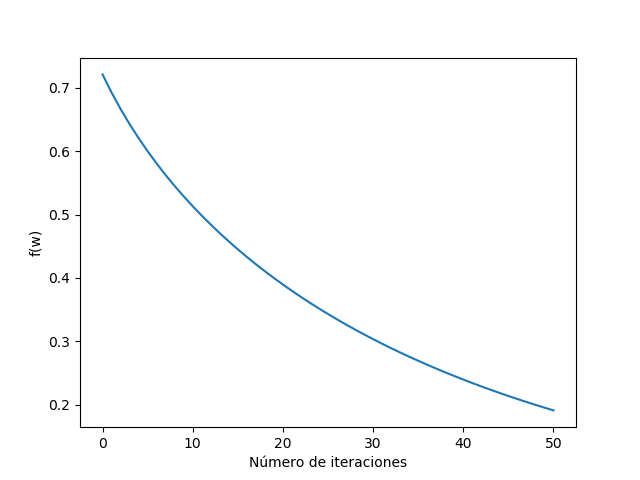
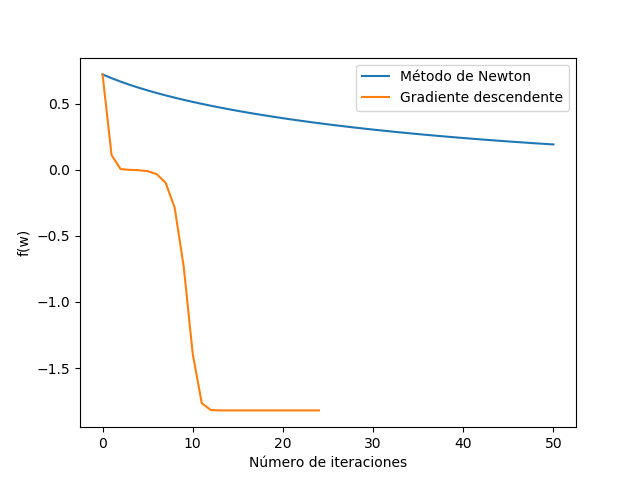
#11 terminando doc

diff --git a/P1/doc/P1-Balderas-Ruiz-Luis.tex b/P1/doc/P1-Balderas-Ruiz-Luis.tex
@@ -71,7 +71,7 @@ $$\frac{\partial E(u,v)}{\partial v} = (2u^2e^v-8ve^{-u})(u^2e^v-2v^2e^{-u})$$
 
 $$\Rightarrow \nabla E(u,v) = \left((4ue^v+4v^2e^{-v})(u^2e^v-2v^2e^{-u}),(u^2e^v-2v^2e^{-u})(2u^2e^v-8ve^{-u})\right)$$
 
-Dado $\epsilon = 10^{-14}$, el número de iteraciones necesarias para obtener un valor por debajo de esa tolerancia (usando flotantes de 64 bits) es 34. Dicho valor se da en el par $(x,y) = (0.619207671834479,0.968448270676094)$
+Dado $\epsilon = 10^{-14}$, el número de iteraciones necesarias para obtener un valor por debajo de esa tolerancia (usando flotantes de 64 bits) es 34. Dicho valor se da en el par $(x,y)$ = (0.619207671834479, 0.968448270676094).
 
 Podemos observarlo en la siguiente gráfica, en la que vemos como converge muy rápidamente (basta una iteración para que se acerque mucho al punto final) hasta que en el 34 se da el criterio de parada. \\
 
@@ -84,7 +84,7 @@ Podemos observarlo en la siguiente gráfica, en la que vemos como converge muy r
 
 \subsubsection{Función $f(x,y)=x^2+2y^2+2sin(2\pi x) sin(2\pi y)$}
 
-En este caso trabajo con la función $f(x,y)=x^2+2y^2+2sin(2\pi x) sin(2\pi y)$. Esta función vuelve a ser clase $C^{\infty}$, luego podemos aplicar gradiente descendente sin problema. Tomando como punto inicial $(x_0,y_0) = (0.1,0.1), \eta = 0.01$ y un máximo de 50 iteraciones, minimizo la función y muestro el gráfico correspondiente. Como se puede ver, la convergencia se produce cerca de la duodécima iteración para llegar a la parada en la número 24. Las coordenadas del mínimo obtenido son $(x,y) = (0.24380496934646,-0.237925821480742$)
+En este caso trabajo con la función $f(x,y)=x^2+2y^2+2sin(2\pi x) sin(2\pi y)$. Esta función vuelve a ser clase $C^{\infty}$, luego podemos aplicar gradiente descendente sin problema. Tomando como punto inicial $(x_0,y_0) = (0.1,0.1), \eta = 0.01$ y un máximo de 50 iteraciones, minimizo la función y muestro el gráfico correspondiente. Como se puede ver, la convergencia se produce cerca de la duodécima iteración para llegar a la parada en la número 24. Las coordenadas del mínimo obtenido son $(x,y)$ = (0.24380496934646, -0.237925821480742)
 
 \begin{figure}[H] %con el [H] le obligamos a situar aquí la figura
 	\centering
@@ -108,7 +108,7 @@ Para el caso en el que $\eta=0.1$ vamos a observar que no hay una convergencia, 
 \begin{figure}[H] %con el [H] le obligamos a situar aquí la figura
 	\centering
 	\includegraphics[scale=0.6]{f3.png}  %el parámetro scale permite agrandar o achicar la imagen. En el nombre de archivo puede especificar directorios
-	\caption{Nube de puntos consecuencia del learning rate = 0.1} 
+	\caption{Comportamiento errático de la imagen debido a learning rate = 0.1} 
 	\label{fig:f3}
 \end{figure}
 
@@ -122,10 +122,10 @@ Probamos ahora el algoritmo en distintos puntos iniciales para ver la importanci
 	\begin{tabular}{|c|c|c|}
 		\hline
 		$(x_0,y_0)$   & $(x,y)$ (Valor donde se alcanza el mínimo)                                 & $f(x,y)$          \\ \hline
-		$(0.1,0.1)$   & $(0.243804969346460, -0.237925821480742)$  & -1.82007854154716 \\ \hline
-		$(1,1)$       & $(1.21807030090520, 0.712811950338754)$    & 0.593269374325836 \\ \hline
-		$(-0.5,-0.5)$ & $(-0.731377459870107, -0.237855362955527)$ & -1.33248106233098 \\ \hline
-		$(-1,-1)$     & $(-1.21807030090520, -0.712811950338754)$  & 0.593269374325836 \\ \hline
+		(0.1, 0.1)   & (0.243804969346460, -0.237925821480742) & -1.82007854154716 \\ \hline
+		(1, 1)       & (1.21807030090520, 0.712811950338754)    & 0.593269374325836 \\ \hline
+		(-0.5, -0.5) & (-0.731377459870107, -0.237855362955527) & -1.33248106233098 \\ \hline
+		(-1, -1)     & (-1.21807030090520, -0.712811950338754)  & 0.593269374325836 \\ \hline
 	\end{tabular}
 	\caption{Tabla requerida en el ejercicio 3 b)}
 	\label{table1}
@@ -133,7 +133,7 @@ Probamos ahora el algoritmo en distintos puntos iniciales para ver la importanci
 
 \subsubsection{Conclusión sobre la verdadera dificultad de encontrar el mínimo global de una función arbitraria}
 
-Tanto en análisis real de una variable como en varias variables reales, la búsqueda de extremos relativos está asociada al concepto de derivada. En el primer caso, buscamos mínimos en el interior del intervalo de definición de la función derivando e igualando a cero la derivada. En el caso de varias variables, calculamos el gradiente e igualamos a cero para los extremos interiores y, en la superficie, utilizamos los multiplicadores de Lagrange. En suma, la optimización está ligada a la derivación. La derivabilidad de una función es un concepto totalmente local, esto es, se puede estudiar con todo rigor en un entorno abierto de un punto. El llamado carácter local de la derivabilidad favorece en muchas demostraciones, en las que basta con comprobarlo para un entorno abierto ya que la extensión al dominio completo es trivial. Sin embargo, la desventaja es que los extremos, en este caso los mínimos, pueden ser relativos. Por tanto, la verdadera dificultad a la hora de encontrar el mínimo global de una función arbitraria es toparse con mínimos locales. Gradiente Descendente es ejemplo de un algoritmo versátil a la hora de encontrar mínimos, pero sólo da garantías para entornos del punto de inicio, cayendo en mínimos locales y olvidándose, a buen seguro, del mínimo global (si es que existe).
+Tanto en análisis real de una variable como en varias variables reales, la búsqueda de extremos relativos está asociada al concepto de derivada. En el primer caso, buscamos mínimos en el interior del intervalo de definición de la función derivando e igualando a cero la derivada. En el caso de varias variables, calculamos el gradiente e igualamos a cero para los extremos interiores y, en la superficie, utilizamos los multiplicadores de Lagrange. En suma, la optimización está ligada a la derivación. La derivabilidad de una función es un concepto totalmente local, esto es, se puede estudiar con todo rigor en un entorno abierto de un punto. El llamado carácter local de la derivabilidad favorece la realización de muchas demostraciones, en las que basta con comprobarlo para un entorno abierto ya que la extensión al dominio completo es trivial. Sin embargo, la desventaja es que los extremos, en este caso los mínimos, pueden ser relativos. Por tanto, la verdadera dificultad a la hora de encontrar el mínimo global de una función arbitraria es toparse con mínimos locales. Gradiente Descendente es ejemplo de un algoritmo versátil a la hora de encontrar mínimos, pero sólo da garantías para entornos del punto de inicio, cayendo en mínimos locales y olvidándose, a buen seguro, del mínimo global (si es que existe).
 
 \section{Ejercicio sobre Regresión Lineal}
 
@@ -157,7 +157,7 @@ En primer lugar, estudio la tasa de aprendizaje. Para ello, genero números equi
 	\label{fig:error1}
 \end{figure}
 
-Como se puede apreciar, la mayoría de los puntos no tienen imagen. Eso se debe a que el error es tan grande que se le asigna el valor infinito. Parece que los mejores valores están entre alrededor de 0.1 y a partir de 0.6.
+Como se puede apreciar, la mayoría de los puntos no tienen imagen. Eso se debe a que el error es tan grande que se le asigna el valor infinito. Parece que los mejores valores están entre alrededor de 0.1 y a partir de 0.6 hasta 0.7. Después todas son infinito.
 
 \begin{figure}[H] %con el [H] le obligamos a situar aquí la figura
 	\centering
@@ -194,13 +194,13 @@ Los errores son prácticamente iguales. Con una tabla salimos de dudas:
 	\begin{tabular}{|c|c|}
 		\hline
 		Tamaño & Ein            \\ \hline
-		32     & 8.25503056e-02 \\ \hline
-		50     & 8.21136740e-02 \\ \hline
-		64     & 8.22251817e-02 \\ \hline
-		80     & 8.18136400e-02 \\ \hline
-		100    & 8.18921430e-02 \\ \hline
-		110    & 8.18857729e-02 \\ \hline
-		128    & 8.19507535e-02 \\ \hline
+		32     & 8.25503056$\times 10^{-2}$ \\ \hline
+		50     & 8.21136740$\times 10^{-2}$ \\ \hline
+		64     & 8.22251817$\times 10^{-2}$ \\ \hline
+		80     & 8.18136400$\times 10^{-2}$ \\ \hline
+		100    & 8.18921430$\times 10^{-2}$ \\ \hline
+		110    & 8.18857729$\times 10^{-2}$ \\ \hline
+		128    & 8.19507535$\times 10^{-2}$ \\ \hline
 	\end{tabular}
 	\caption{Tabla TamañoMinibatch-Error}
 	\label{table2}
@@ -217,7 +217,7 @@ Una vez elegidos los parámetros, ejecuto el algoritmo de Gradiente Descendente 
 	\label{fig:sgd}
 \end{figure}
 
-Ademas, $w=(-1.24216077,-0.14997997,-0.45243432)$, $E_{in} = 0.0819386655754886$ y $E_{out} = 0.13418223441350954$.
+Ademas, $w=$(-1.24216077,-0.14997997,-0.45243432), $E_{in}$ = 0.0819386655754886 y $E_{out}$ = 0.13418223441350954.
 Merece la pena detenerse para señalar la recta que divide el espacio separando las dos clases. En el eje X represento la intensidad, que se mueve entre 0 y 1. Si $w$ es un vector con las coordenadas estimadas después de la regresión, la ecuación general de la recta tiene la siguiente expresión:
 
 $$y = \frac{-w[1]}{w[2]}x - \frac{w[0]}{w[2]}$$
@@ -235,7 +235,7 @@ El algoritmo de pseudoinversa, a través de la descomposición en valores singul
 	\label{fig:pseud}
 \end{figure}
 
-Los valores de error son menores que en SGD: $E_{in}=0.07918658628900395, E_{out}=0.13095383720052586$. Además, $w=(-1.11588016,-1.24859846,+0.49753165)$.
+Los valores de error son menores que en SGD: $E_{in}$=0.07918658628900395, $E_{out}$=0.13095383720052586. Además, $w=$(-1.11588016, -1.24859846, -0.49753165).
 \newpage
 
 \subsubsection{Experimento}
@@ -258,7 +258,7 @@ Nos ocupamos ahora del experimento. En primer lugar, genero una muestra de entre
 	\label{fig:puntos2D-et}
 \end{figure}
  
-Sobre estos puntos, aplico un modelo de regresión lineal, SGD concretamente, para ver si las dos clases son linealmente separables. Es obvio que no lo son, así que la recta de regresión no va a servir para clasificar, como ahora veremos. El error obtenido es $E_{in} = 0.8962522665389515$ y $w=(0.02259206,-0.54045135,0.03210277)$
+Sobre estos puntos, aplico un modelo de regresión lineal, SGD concretamente, para ver si las dos clases son linealmente separables. Es obvio que no lo son, así que la recta de regresión no va a servir para clasificar, como ahora veremos. El error obtenido es $E_{in}$ = 0.8962522665389515 y w=(0.02259206, -0.54045135, 0.03210277)
 
 \begin{figure}[H] %con el [H] le obligamos a situar aquí la figura
 	\centering
@@ -271,13 +271,18 @@ Para terminar nuestro experimento, ejecutamos todo lo anterior 1000 veces para a
 
 \section{Bonus}
 
-Recuperamos la función $f(x,y)=x^2+2y^2+2sin(2\pi x) sin(2\pi y)$ para aplicarle el método de Newton. Dicho método es una extensión de Gradiente Descendente, basado en la inversión de la matriz Hessiana. Los resultados son generalmente más buenos (son necesarias menos iteraciones) aunque computacionalmente es más costoso. \\
+Recuperamos la función $f(x,y)=x^2+2y^2+2sin(2\pi x) sin(2\pi y)$ para aplicarle el método de Newton. Dicho método es una extensión de Gradiente Descendente, basado en la inversión de la matriz Hessiana. El método de Newton en varias variables tiene la siguiente expresión recurrente:
+
+$$ x_{n+1} = x_{n} - \lambda [Hf(x_n)]^{-1} \nabla f(x_n)$$
+
+donde $[Hf(x_n)]^{-1}$ es la inversa de la matriz Hessiana, $\lambda \in (0,1)$. Si la Hessiana es definida positiva (por tanto invertible) y Lipschitziana, el método de Newton converge en orden cuadrático al mínimo (a pesar de la complejidad computacional en el cálculo de la inversa). Sin embargo, si la matriz no es definida positiva, el método acaba por converger en un punto de silla (puntos donde se da un cambio en la curvatura) \cite{pam}, \cite{np}.
+
 
 Desde un punto de vista pragmático, he definido funciones que evalúan $f$, $f_x,f_y, f_{xx},f_{yy}$ y $f_{xy}$. Sabemos que $f_{xy} = f_{yx}$ por la simetría de las segundas derivadas, debido a que el espacio es euclídeo y las derivadas segundas de $f$ son continuas (Teorema de Schwarz, Teorema de Clairaut, \cite{rudin}). Por último, defino el algoritmo utilizando la inversa de la matriz Hessiana (previamente calculada con un módulo) por el gradiente de $f$. Veamos cómo desciende el valor de la función con las iteraciones del método de Newton tratando los puntos iniciales del ejercicio anterior:
 
 \subsection{Caso 1}
 
-Para $w_0=(1,1), \eta = 0.01$, el punto donde se alcanza el mínimo es $$w=( 0.98039190351 , 0.990414773324 )$$ El mínimo es $f(w) = 2.93780445477$.
+Para $w_0=(1,1), \eta$ = 0.01, el punto donde se alcanza el mínimo es $$w=( 0.98039190351 , 0.990414773324 )$$ El mínimo es $f(w) = 2.93780445477$.
 
 \begin{figure}[H] %con el [H] le obligamos a situar aquí la figura
 	\centering
@@ -287,7 +292,7 @@ Para $w_0=(1,1), \eta = 0.01$, el punto donde se alcanza el mínimo es $$w=( 0.9
 \end{figure}
 
 \subsection{Caso 2}
-Para $w_0=(0.1,0.1), \eta = 0.01$, el punto donde se alcanza el mínimo es $$w=(0.0492016140411 , 0.0489001338764)$$ El mínimo es $f(w) =0.191231609806$.
+Para $w_0=(0.1,0.1), \eta = 0.01$, el punto donde se alcanza el mínimo es $$w=(0.0492016140411 , 0.0489001338764)$$ El mínimo es $f(w) =0.191231609806$. En la siguiente gráfica plasmo el rendimiento con el Método de Newton y con el Gradiente Descendente sobre los mismos datos iniciales:
 
 \begin{figure}[H] %con el [H] le obligamos a situar aquí la figura
 	\centering
@@ -295,6 +300,8 @@ Para $w_0=(0.1,0.1), \eta = 0.01$, el punto donde se alcanza el mínimo es $$w=(
 	\caption{Método de Newton sobre f con w inicial (0.1,0.1) y $\eta = 0.01$} 
 	\label{fig:bon2}
 \end{figure}
+
+Como se puede ver, con tan sólo 24 iteraciones, Gradiente Descendente converge al posible mínimo mientras que el Método de Newton, tras 50, se queda muy lejos.
 
 \subsection{Caso 3}
 
@@ -331,6 +338,11 @@ Para $w_0=(0.1,0.1), \eta = 0.1$, el punto donde se alcanza el mínimo es $$w=(0
 	\label{fig:bon5}
 \end{figure}
 
+Curiosamente, este caso muestra que un learning rate elevado en el método de Newton para esta función corrige las deficiencias generadas en el Gradiente descendente, encontrando un supuesto mínimo y evitando el comportamiento errático.
+
+En los casos anteriores, la matriz Hessiana \textbf{nunca} es definida positiva. Esto explica que no haya convergencia a los mínimos sino a puntos de silla (comparando los valores de las tablas obtenidos con GD, Newton siempre consigue peores resultados en los supuestos mínimos hallados).
+
+
 Recuperando la función $f$, vemos que hay multitud de mínimos, por lo que el punto inicial y la tasa de aprendizaje es determinante en la caída al mínimo.
 
 \begin{figure}[H] %con el [H] le obligamos a situar aquí la figura
@@ -347,7 +359,7 @@ Recuperando la función $f$, vemos que hay multitud de mínimos, por lo que el p
 	\label{fig:f22}
 \end{figure}
 
-Además, las gráficas mostradas en los distintos casos indican que el método de Newton, ante funciones que son dos veces derivables y con derivada continua, tiene mucho mejor rendimiento que Gradiente Descendente, ya que aprovechamos la información de la curvatura de la función y no sólo de la pendiente de los hiperplanos tangentes (dependiendo de la dimensión).
+En la práctica, el método de Newton es útil cuando estamos muy cerca de un mínimo. Por tanto, una idea acertada sería utilizar métodos alternativos más potentes para aproximarnos a los mínimos, como el método del gradiente conjugado (\cite{pam}) o gradiente descendente con tasa de aprendizaje variable y, tras ellos, aplicar el método de Newton para garantizar el mínimo.
 \newpage
 \section{Bibliografía}
 

diff --git a/P1/P1-Bal-Rui-Lui.py b/P1/P1-Bal-Rui-Lui.py
@@ -116,9 +116,9 @@ print("EJERCICIO 1.3")
 # Apartado a)
 print("Apartado a)")
 
-w,k,data = GD(np.array([0.1,0.1],np.float64),0.01,gradientf,evalf,10**(-20),50)
+w,k,data_gd1 = GD(np.array([0.1,0.1],np.float64),0.01,gradientf,evalf,10**(-20),50)
 print("Coordenadas del mínimo: ", w)
-plt.plot(range(0,k+1),data,'bo')
+plt.plot(range(0,k+1),data_gd1)
 plt.xlabel('Número de iteraciones')
 plt.ylabel('f(x,y)')
 plt.show()
@@ -126,8 +126,8 @@ input("\n--- Pulsa una tecla para continuar ---\n")
 
 ## para learning_rate = 0.1
 print("Learning rate 0.1")
-w,k,data = GD(np.array([0.1,0.1],np.float64),0.1,gradientf,evalf,10**(-20),50)
-plt.plot(range(0,k+1),data,'bo')
+w,k,data_gd2 = GD(np.array([0.1,0.1],np.float64),0.1,gradientf,evalf,10**(-20),50)
+plt.plot(range(0,k+1),data_gd2)
 plt.xlabel('Número de iteraciones')
 plt.ylabel('f(x,y)')
 plt.show()
@@ -560,6 +560,15 @@ def hessianaF(w):
 
 print("Definiendo el método de Newton")
 
+## Función para comprobar si una matriz es definida positiva
+
+def is_positiveDefinite(matrix):
+    det = matrix[0][0]*matrix[1][1] - matrix[1][0]*matrix[0][1]
+    if(matrix[0][1]>0 and det>0):
+        return True
+    else:
+        return False
+
 ## MÉTODO DE NEWTON
 # Parámetros:
 #   - w: vector inicial w
@@ -575,6 +584,7 @@ def MetodoNewton(w,learning_rate,gradientf,f_2,hessf, max_iters = 15000000):
     medida = [f_2(w)]
     for i in range(0,max_iters):
         last_w = w
+        print("Definida positiva en la iteración ", i, is_positiveDefinite(hessf(w)))
         w = w - learning_rate * np.linalg.inv(hessf(w)).dot(gradientf(w))
         medida.insert(len(medida),f_2(w))
     return w, medida
@@ -596,8 +606,10 @@ input("\n--- Pulsar tecla para continuar ---\n")
 print('(0.1, 0.1), LR=0.01')
 w, g = MetodoNewton(np.array([0.1,0.1],np.float64), 0.01, gradienteF, f, hessianaF, 50)
 print("Punto donde se alcanza el mínimo: (", w[0],",",w[1],")")
-plt.plot(range(0,51),g)
+plt.plot(range(0,51),g,label="Método de Newton")
+plt.plot(range(0,25),data_gd1,label="Gradiente descendente")
 plt.xlabel("Número de iteraciones")
+plt.legend()
 plt.ylabel("f(w)")
 plt.show()
 print("Mínimo de f: " , f(w))
@@ -627,11 +639,13 @@ print("Mínimo de f: " , f(w))
 input("\n--- Pulsar tecla para continuar ---\n")
 
 print('(0.1, 0.1), LR=0.1')
-w, g = MetodoNewton(np.array([0.1,0.1],np.float64), 0.1, gradienteF, f, hessianaF, 50)
+w, g = MetodoNewton(np.array([0.1,0.1],np.float64), 0.1, gradienteF, f, hessianaF,50)
 print("Punto donde se alcanza el mínimo: (", w[0],",",w[1],")")
-plt.plot(range(0,51),g)
+plt.plot(range(0,51),g,label="Método de Newton")
+plt.plot(range(0,52),data_gd2,label="Gradiente descendente")
 plt.xlabel("Número de iteraciones")
 plt.ylabel("f(w)")
+plt.legend()
 plt.show()
 print("Mínimo de f: " , f(w))
 
